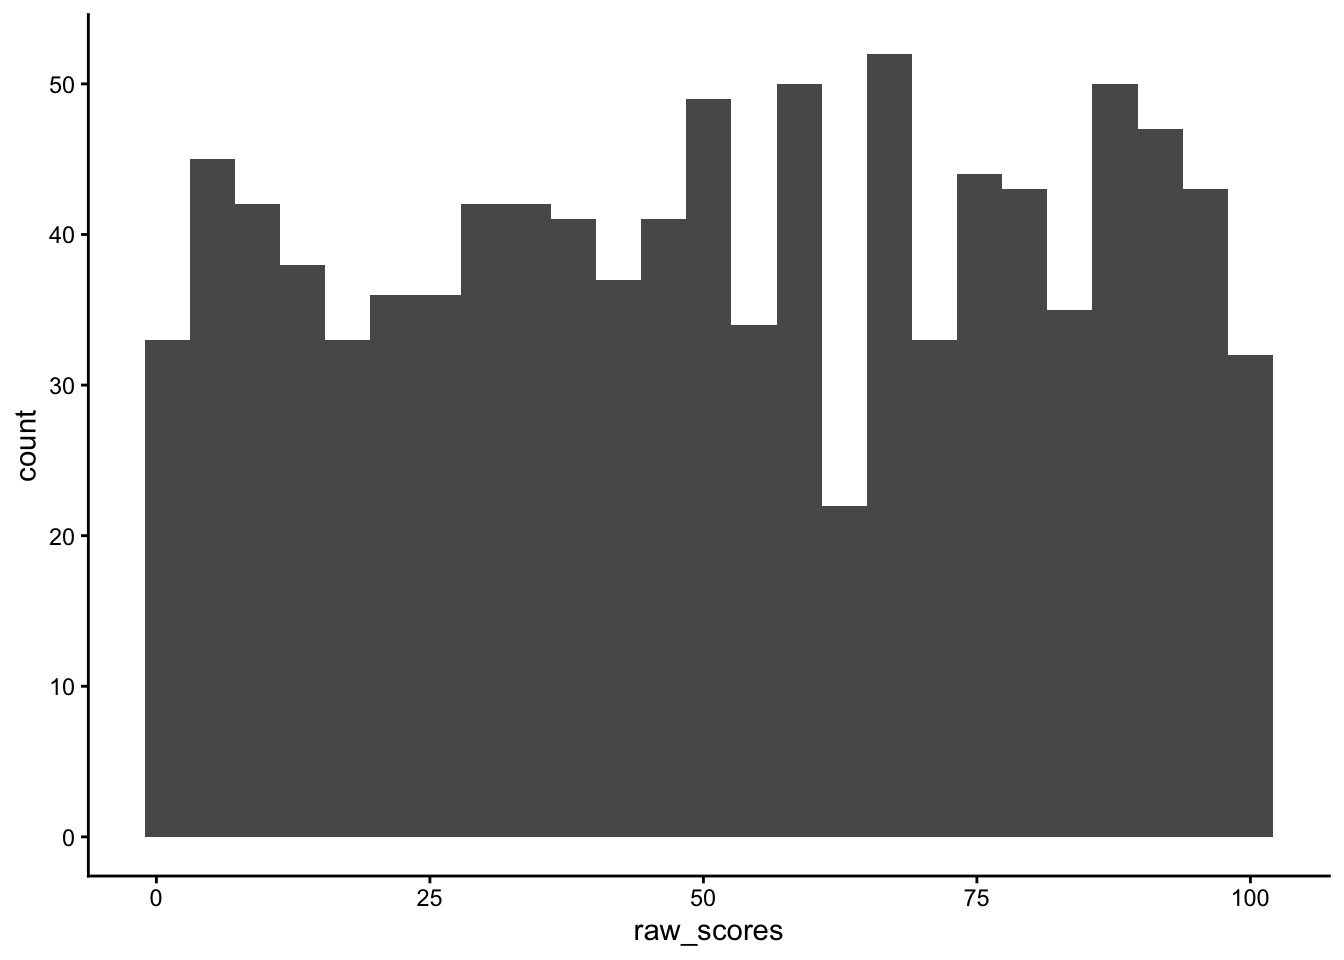
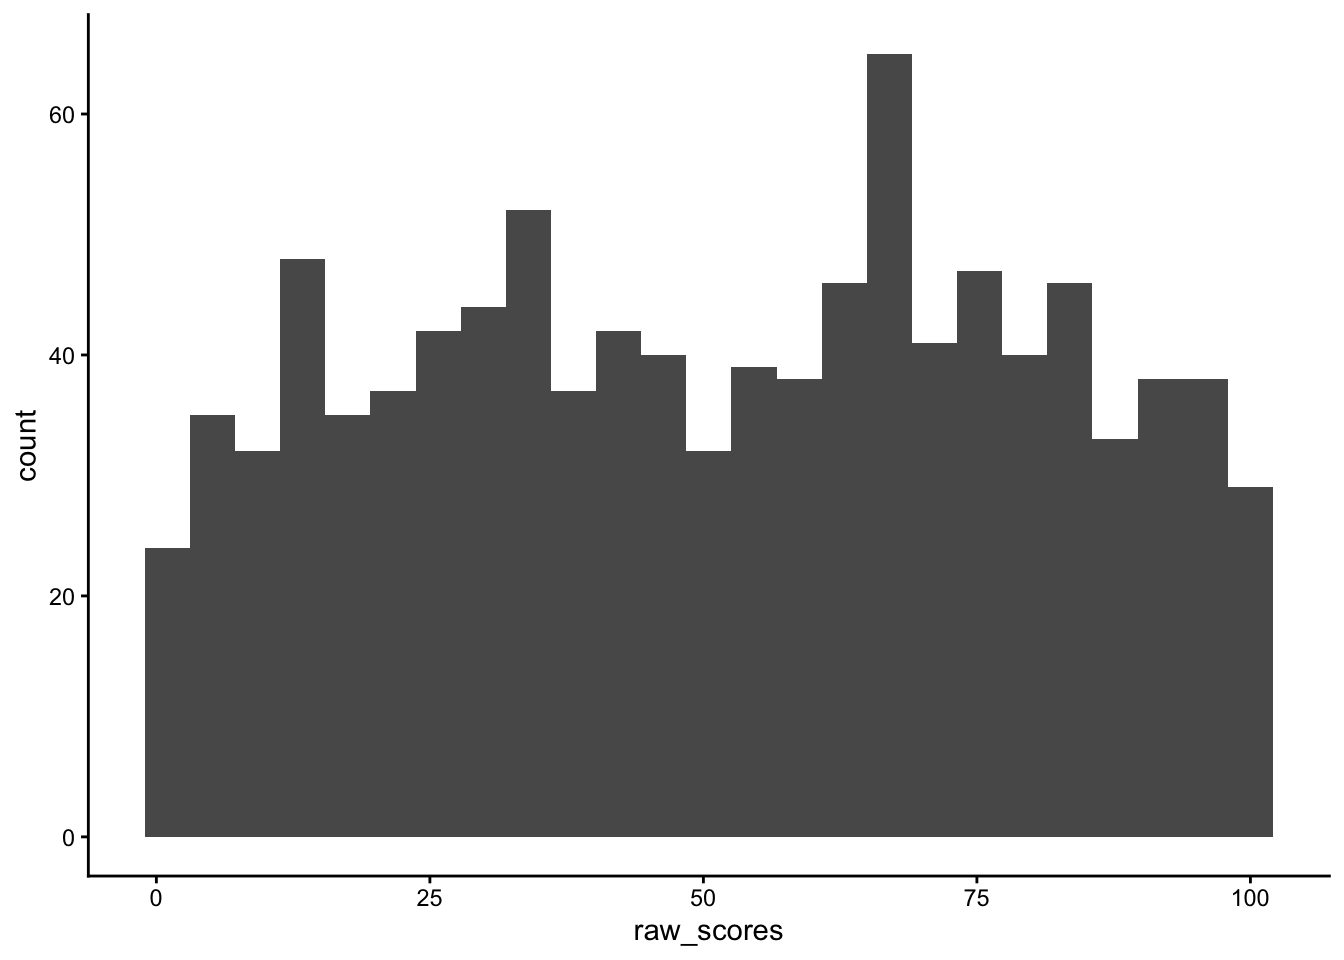
forgot to add to yml

diff --git a/docs/z_scores.html b/docs/z_scores.html
@@ -392,15 +392,15 @@ window.Quarto = {
 <pre><code># A tibble: 25 × 1
    raw_scores
         &lt;int&gt;
- 1          7
- 2          7
- 3          6
- 4          1
- 5          6
- 6         10
- 7          3
- 8         10
- 9          2
+ 1         10
+ 2          1
+ 3          5
+ 4          7
+ 5          2
+ 6          3
+ 7          1
+ 8          4
+ 9          7
 10          1
 # ℹ 15 more rows</code></pre>
 </div>
@@ -415,16 +415,16 @@ window.Quarto = {
 <pre><code># A tibble: 25 × 2
    raw_scores z_scores[,1]
         &lt;int&gt;        &lt;dbl&gt;
- 1          7        0.592
- 2          7        0.592
- 3          6        0.240
- 4          1       -1.52 
- 5          6        0.240
- 6         10        1.65 
- 7          3       -0.817
- 8         10        1.65 
- 9          2       -1.17 
-10          1       -1.52 
+ 1         10       1.54  
+ 2          1      -1.37  
+ 3          5      -0.0778
+ 4          7       0.570 
+ 5          2      -1.05  
+ 6          3      -0.726 
+ 7          1      -1.37  
+ 8          4      -0.402 
+ 9          7       0.570 
+10          1      -1.37  
 # ℹ 15 more rows</code></pre>
 </div>
 </div>
